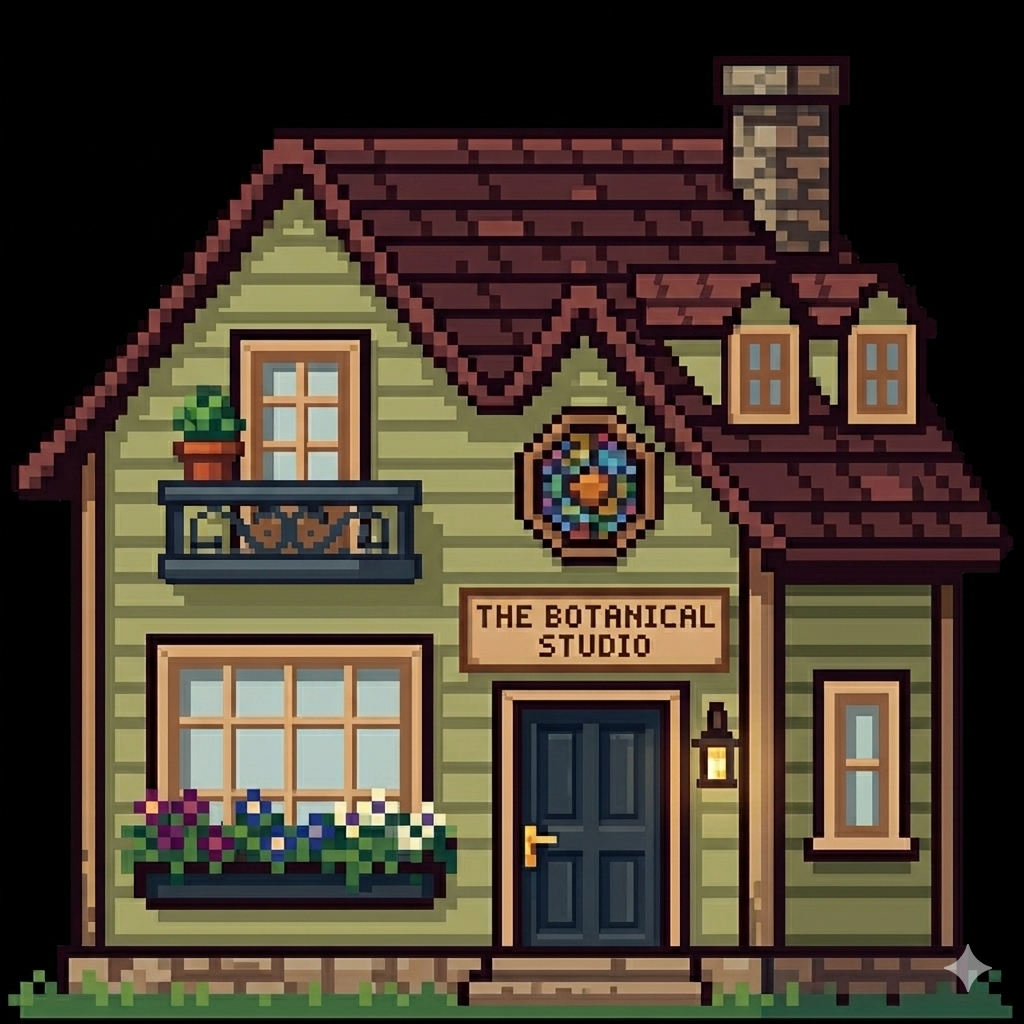
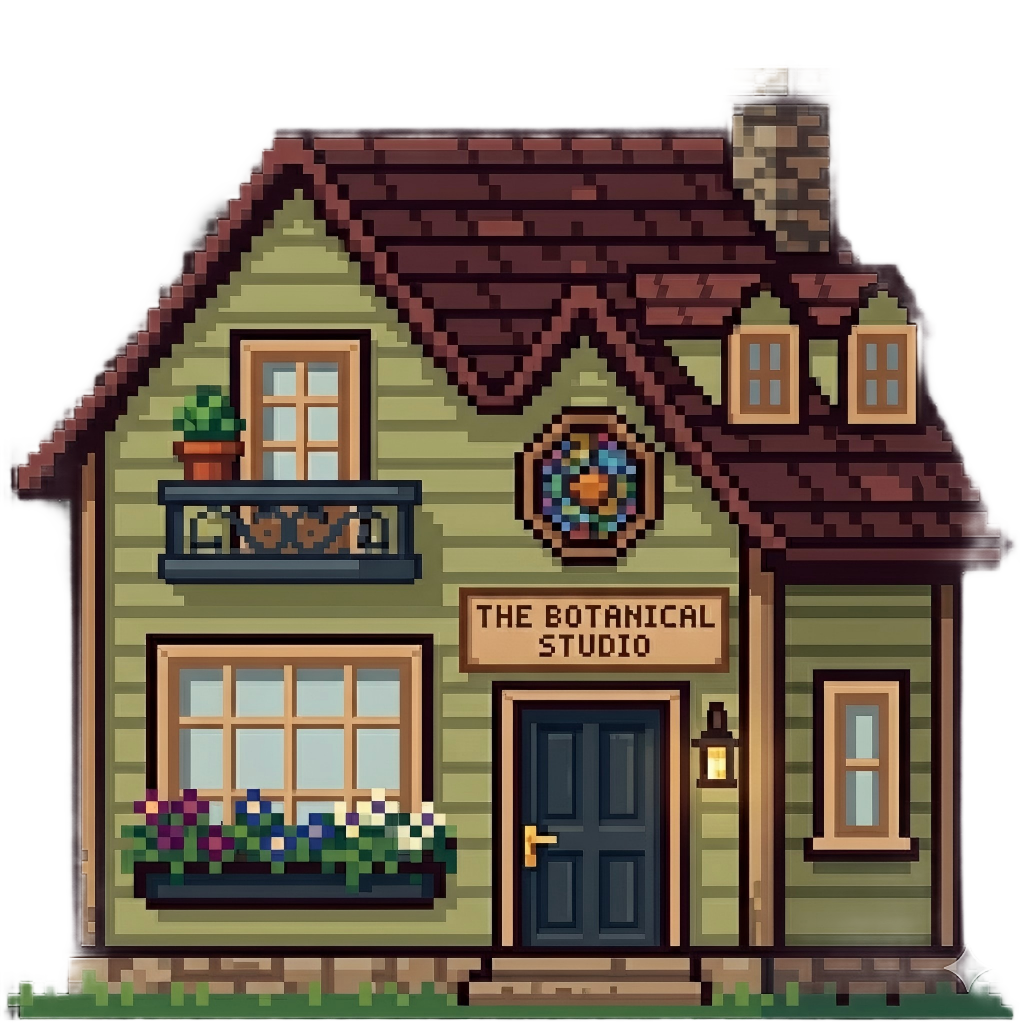
修复地形渲染：在app.js中添加围墙、河流、大门、桥梁、栅栏绘制

diff --git a/public/js/app.js b/public/js/app.js
@@ -424,6 +424,15 @@ function drawMap() {
     // 正常模式绘制世界中的物体
     const worldState = state.world.getWorldState();
 
+    // 绘制地形（围墙、河流、大门、桥梁）
+    if (worldState.getTerrainMap) {
+      const terrainMap = worldState.getTerrainMap();
+      for (const [key, terrain] of terrainMap) {
+        const [tx, ty] = key.split(',').map(Number);
+        drawTerrainTile(ctx, tx, ty, terrain, cellSize);
+      }
+    }
+
     // 绘制路径
     drawPaths(ctx, cellSize);
 
@@ -471,6 +480,79 @@ function drawTerrain(ctx, x, y, terrain, cellSize) {
       ctx.fillRect(px, py, cellSize, cellSize);
   }
 }
+
+// 绘制地形瓦片（围墙、河流、大门、桥梁、栅栏）
+function drawTerrainTile(ctx, x, y, terrain, cellSize) {
+  const px = x * cellSize;
+  const py = y * cellSize;
+
+  switch (terrain) {
+    case 'wall':
+      // 绘制围墙 - 深灰色砖墙
+      ctx.fillStyle = '#4a4a4a';
+      ctx.fillRect(px, py, cellSize, cellSize);
+      // 砖块纹理
+      ctx.fillStyle = '#5a5a5a';
+      ctx.fillRect(px + 2, py + 2, cellSize - 4, cellSize - 4);
+      ctx.strokeStyle = '#333';
+      ctx.lineWidth = 1;
+      ctx.strokeRect(px, py, cellSize, cellSize);
+      break;
+
+    case 'river':
+      // 绘制河流 - 蓝色水面
+      ctx.fillStyle = '#3498db';
+      ctx.fillRect(px, py, cellSize, cellSize);
+      // 水波纹效果
+      ctx.fillStyle = '#5dade2';
+      ctx.fillRect(px + 2, py + 4, cellSize - 4, cellSize - 8);
+      break;
+
+    case 'gate':
+      // 绘制大门 - 棕色木门，可通行
+      ctx.fillStyle = '#8b4513';
+      ctx.fillRect(px, py, cellSize, cellSize);
+      // 门上的装饰
+      ctx.fillStyle = '#a0522d';
+      ctx.fillRect(px + 3, py + 3, cellSize - 6, cellSize - 6);
+      // 门把手
+      ctx.fillStyle = '#ffd700';
+      ctx.beginPath();
+      ctx.arc(px + cellSize - 6, py + cellSize / 2, 3, 0, Math.PI * 2);
+      ctx.fill();
+      break;
+
+    case 'bridge':
+      // 绘制桥梁 - 棕色木板
+      ctx.fillStyle = '#8b4513';
+      ctx.fillRect(px, py, cellSize, cellSize);
+      // 木板纹理
+      ctx.fillStyle = '#a0522d';
+      ctx.fillRect(px + 2, py + 2, cellSize - 4, cellSize - 4);
+      // 桥栏杆
+      ctx.strokeStyle = '#654321';
+      ctx.lineWidth = 2;
+      ctx.beginPath();
+      ctx.moveTo(px, py + 4);
+      ctx.lineTo(px + cellSize, py + 4);
+      ctx.moveTo(px, py + cellSize - 4);
+      ctx.lineTo(px + cellSize, py + cellSize - 4);
+      ctx.stroke();
+      break;
+
+    case 'fence':
+      // 绘制栅栏 - 浅棕色木栅栏
+      ctx.fillStyle = '#d2b48c';
+      ctx.fillRect(px, py, cellSize, cellSize);
+      // 栅栏柱
+      ctx.fillStyle = '#8b7355';
+      ctx.fillRect(px + 2, py + 2, 4, cellSize - 4);
+      ctx.fillRect(px + cellSize - 6, py + 2, 4, cellSize - 4);
+      // 横栏
+      ctx.fillRect(px + 2, py + 6, cellSize - 4, 3);
+      ctx.fillRect(px + 2, py + cellSize - 9, cellSize - 4, 3);
+      break;
+  }
 
 function drawEditorBuilding(ctx, building, cellSize) {
   const x = building.x * cellSize;
